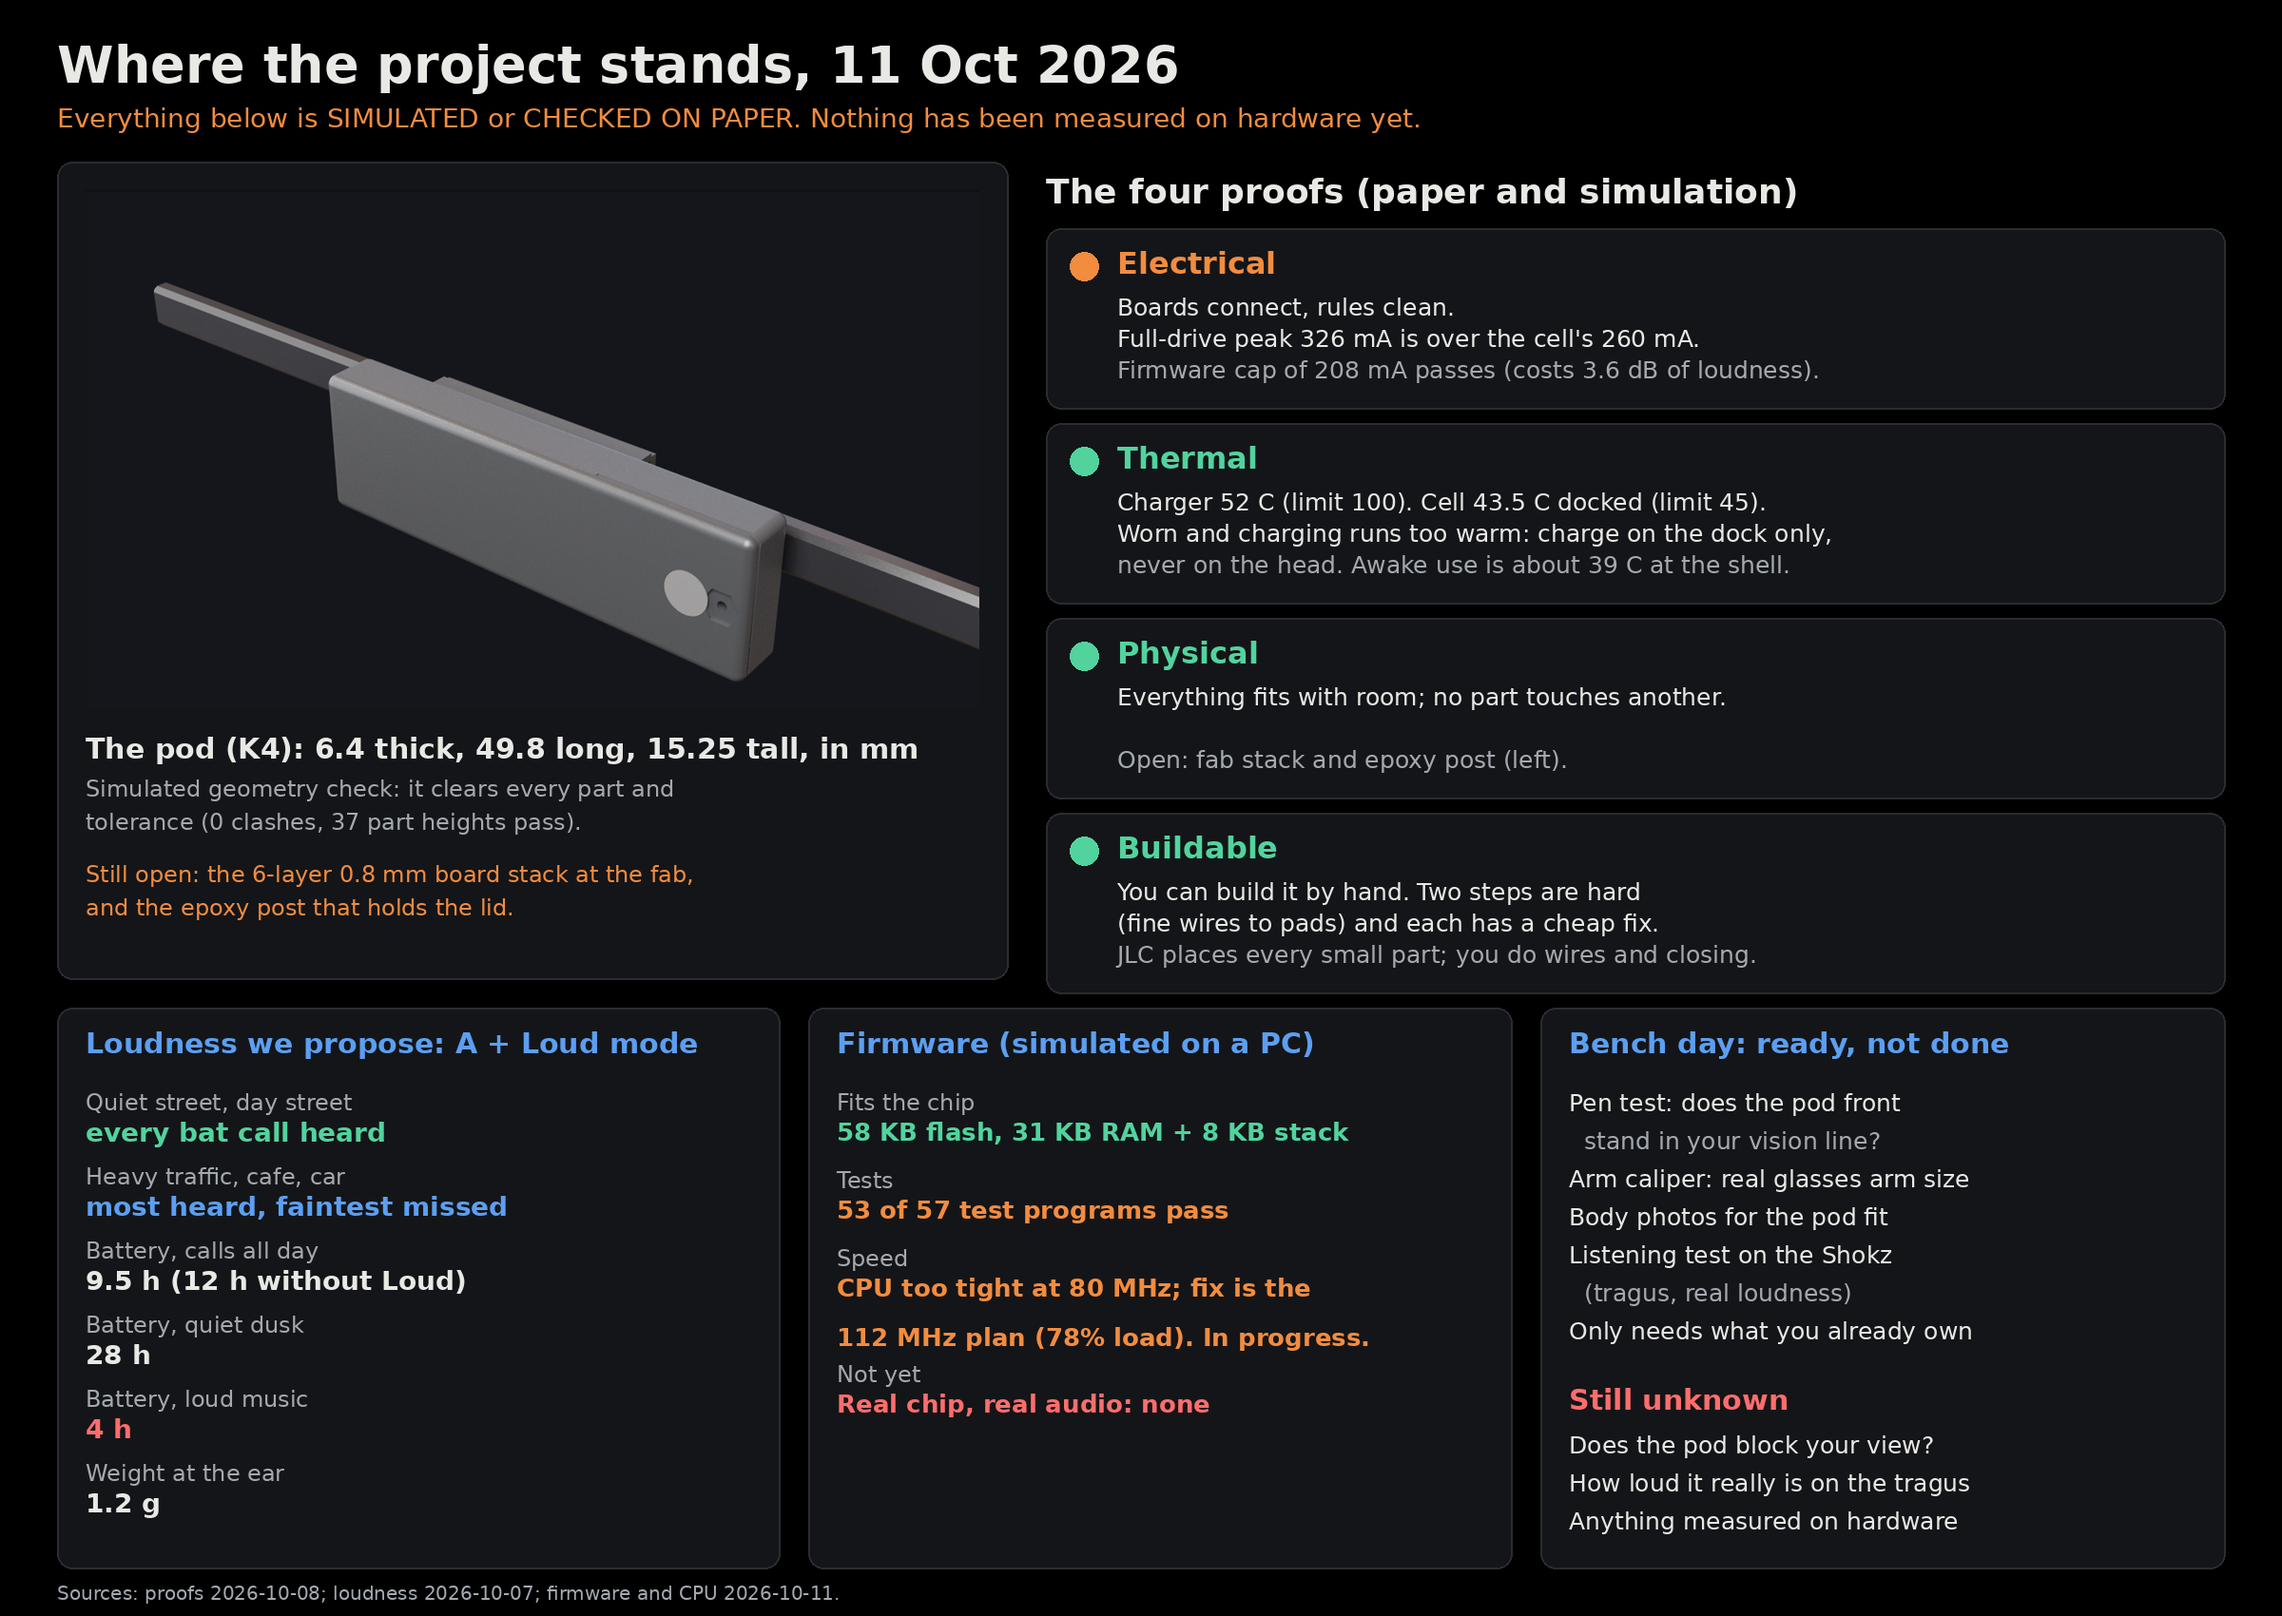
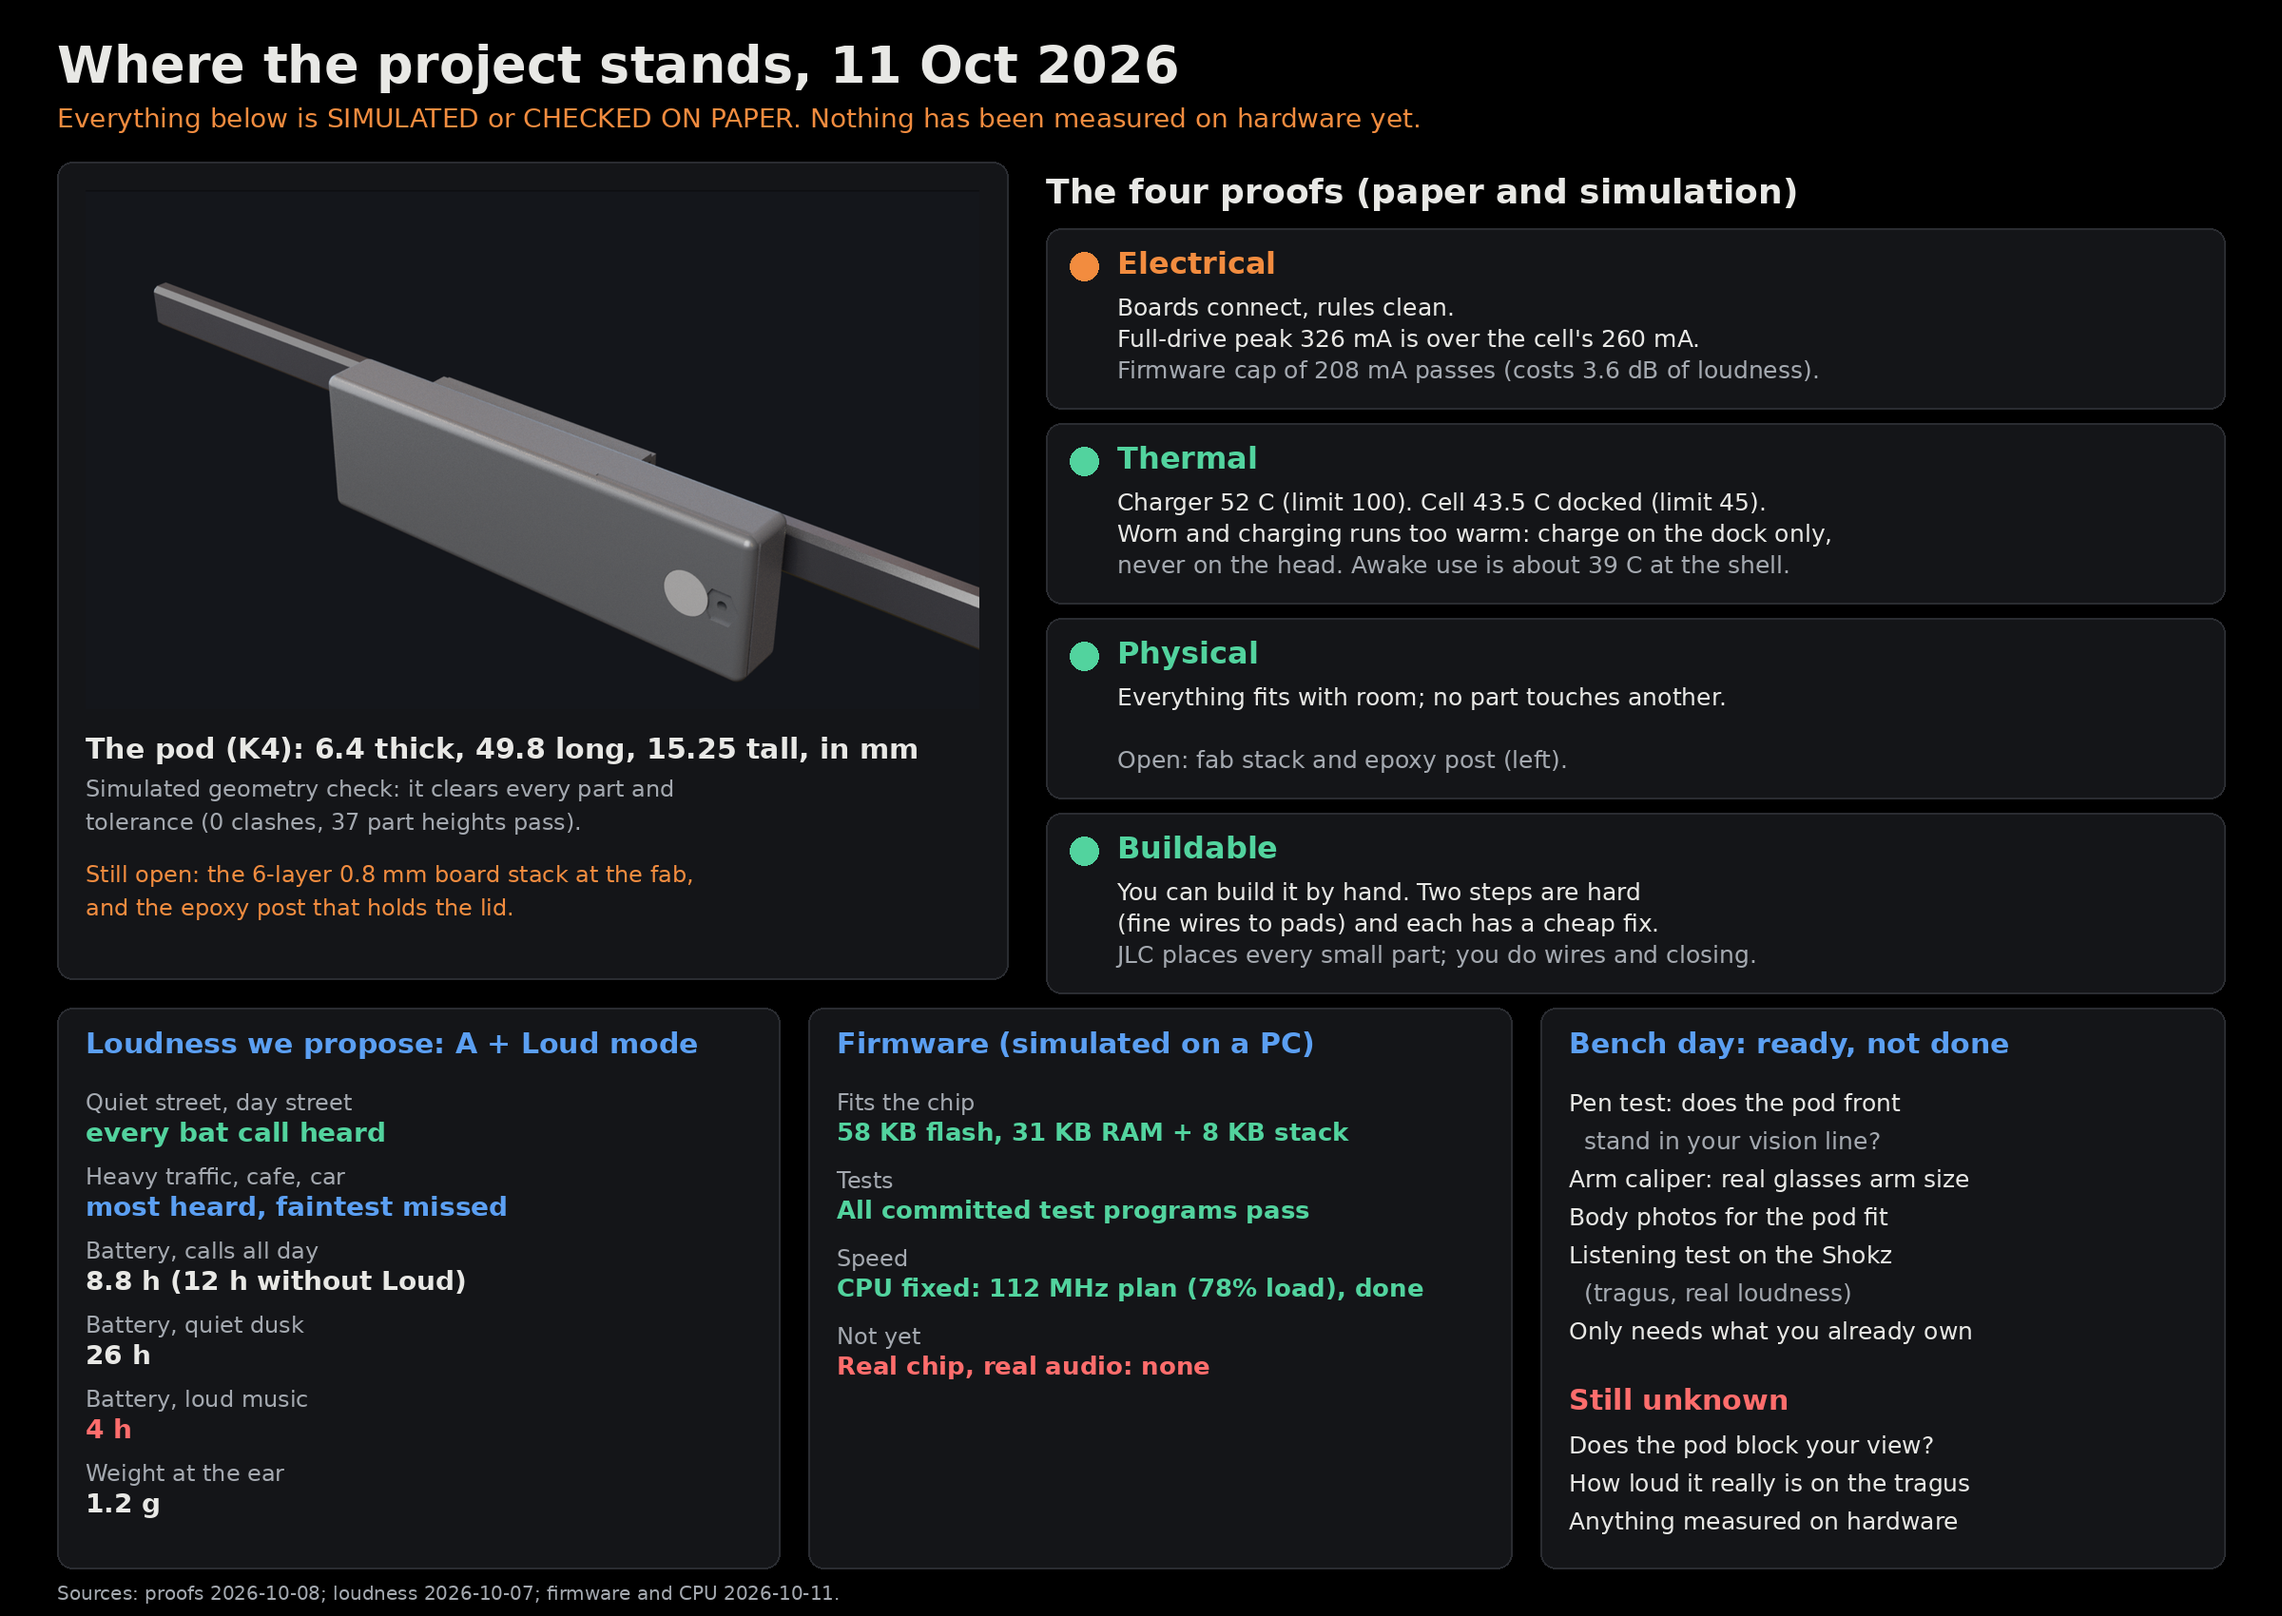
perf: re-run port_meadow after duty-normalisation fix + P112; one runtime table; sync perf doc, reconciled erratum, d17-choice, progress page (2026-10-11)
Claude-Session: https://claude.ai/code/session_01Wg997D6KFs8bxoAH56jZZJ

Changed region(s): [[0.3438, 0.7171, 0.625, 0.8729]]

diff --git a/docs/progress/2026-10-11/make.py b/docs/progress/2026-10-11/make.py
@@ -39,7 +39,7 @@ yb = 1060
 card(60, yb, 760, 590)
 T(90, yb+20, "Loudness we propose: A + Loud mode", 30, BLU, True)
 lo = [("Quiet street, day street", "every bat call heard", GRN), ("Heavy traffic, cafe, car", "most heard, faintest missed", BLU),
-      ("Battery, calls all day", "9.5 h (12 h without Loud)", INK), ("Battery, quiet dusk", "28 h", INK),
+      ("Battery, calls all day", "8.8 h (12 h without Loud)", INK), ("Battery, quiet dusk", "26 h", INK),
       ("Battery, loud music", "4 h", RED), ("Weight at the ear", "1.2 g", INK)]
 yy = yb+85
 for a, b2, c in lo:
@@ -47,8 +47,8 @@ for a, b2, c in lo:
 card(850, yb, 740, 590)
 T(880, yb+20, "Firmware (simulated on a PC)", 30, BLU, True)
 fw = [("Fits the chip", "58 KB flash, 31 KB RAM + 8 KB stack", GRN),
-      ("Tests", "53 of 57 test programs pass", AMB),
-      ("Speed", "CPU too tight at 80 MHz; fix is the", AMB), ("", "112 MHz plan (78% load). In progress.", AMB),
+      ("Tests", "All committed test programs pass", GRN),
+      ("Speed", "CPU fixed: 112 MHz plan (78% load), done", GRN),
       ("Not yet", "Real chip, real audio: none", RED)]
 yy = yb+85
 for a, b2, c in fw:

diff --git a/docs/diagrams/d17-choice/make.py b/docs/diagrams/d17-choice/make.py
@@ -57,8 +57,8 @@ def row(label, vals, yy, sz=22, note=None):
     for i, v in enumerate(vals):
         c = PK if (isinstance(v, tuple) and v[1]) else TX
         t(x0 + i * cw + cw/2, yy, v[0] if isinstance(v, tuple) else v, sz, c, "middle", True)
-row("Battery, dense calls", ["12.3 h", "12.1 h", "9.5 h", "~9.3 h"], yb + 22)
-row("Battery, quiet dusk", ["32 h", "32 h", "28 h", "~27 h"], yb + 58)
+row("Battery, dense calls", ["12.2 h", "11.9 h", "8.8 h", "~8.6 h"], yb + 22)
+row("Battery, quiet dusk", ["32 h", "32 h", "26 h", "~25 h"], yb + 58)
 t(40, yb + 94, "Battery, loud music", 20)
 for i, v in enumerate(["(not tested)", "(not tested)", "4 h", "4 h"]):
     t(x0 + i*cw + cw/2, yb + 94, v, 20 if v[0] != "(" else 14, PK if v == "4 h" else T2, "middle", v[0] != "(")

diff --git a/docs/sim/perf-port-meadow.md b/docs/sim/perf-port-meadow.md
@@ -1,4 +1,17 @@
-# Port Meadow end-to-end performance regression (2026-10-08)
+# Port Meadow end-to-end performance regression (2026-10-08; table re-run 2026-10-11)
+
+**2026-10-11 re-run (authoritative):** after fe405bf (bridge duty normalised by plan ARR/2) and a070a87 (shipping clock P112, ECR-0027), baseline PASS, 54 clips, 2059 calls. Mean mA (dense) / runtime h on 130 mAh (0.85 usable) at dense 81 % / walk 40 % / dusk 18 % awake (aw = awake mA from scene; idle 1.60 + 0.45 bridge ripple unless hiz_idle; LED 0.08):
+
+| config | mean mA | dense 81 % | walk 40 % | dusk 18 % |
+|---|---|---|---|---|
+| today | 10.67 | 12.2 (10.4) | 20.6 (17.5) | 32.4 (27.5) |
+| A (shipping, loud off at boot) | 10.91 | 11.9 (10.1) | 20.2 (17.2) | 31.9 (27.1) |
+| A+loud4 | 11.82 | 11.0 (9.3) | 18.9 (16.0) | 30.4 (25.9) |
+| A+loud12 | 14.83 | 8.8 (7.5) | 15.5 (13.2) | 26.3 (22.4) |
+| A+loud12+shape | 19.86 | 6.5 (5.6) | 12.0 (10.2) | 21.5 (18.3) |
+| hiz_idle | 10.59 | 12.3 (10.4) | 21.5 (18.3) | 35.6 (30.3) |
+
+Old -> new mean mA: 10.58->10.67, 10.76->10.91, 11.43->11.82, 13.63->14.83, 10.50->10.59 (shape 17.36 [10-08 re-bless] -> 19.86). Level/latency/recall rows below unchanged except A max -3.4 -> -3.0, loud max -3.0 -> -2.6 dBFS. Older tables below (10-08) are superseded; they quoted pre-fix currents.
 
 Script `sim/perf/port_meadow.py`, baseline `sim/perf/port_meadow_baseline.json`, runtime ~95 s fenced (3G). `--bless` rewrites the baseline; default run exits 1 if any metric leaves its tolerance.
 Data: Zenodo 22079773 (Port Meadow, AudioMoth 192 kS/s, CC-BY-4.0), receiver_3 of all 54 flypasts, 2059 annotated calls (BatDetect2 det_prob >= 0.5), 210 s scored. One global Pa scale (loudest 10 ms of the 172626 clip = 75 dB SPL; calibration unknown). Each clip tiled 3x, last copy scored. Chain: sim/e2e front end -> host firmware (spec B, transient only, idle detector on).
@@ -13,9 +26,9 @@ Configs: today = defaults; A = lim_lookahead 1 (D17 rec A, fbfb38b); A+loud4/12 
 | false wakes /min, call-free scenes (silence, house walk) | 10.0 | 10.0 | 10.0 | 10.0 | 10.0 | informational |
 | wake-to-sound latency p50 / p90 (ms) | 89.7 / 641 | 90.1 / 642 | 90.4 / 641 | 90.4 / 641 | 89.7 / 641 | 0.7 / 1.4 |
 | output level per call p50 (dBFS pre-quantiser) | -34.2 | -34.2 | -30.2 | -22.3 | -34.2 | 0.3 |
-| output level per call max (dBFS) | -12.0 | -3.4 | -3.0 | -3.0 | -12.0 | 0.3 |
+| output level per call max (dBFS) | -12.0 | -3.0 | -2.6 | -2.6 | -12.0 | 0.3 |
 | awake fraction | 0.815 | 0.815 | 0.815 | 0.815 | 0.815 | (via mean mA) |
-| mean current (mA, model, this scene, reconciled 2026-10-08) | 10.58 | 10.76 | 11.43 | 13.63 | 10.50 | 0.02 |
+| mean current (mA, model, this scene, reconciled 2026-10-08) | 10.67 | 10.91 | 11.82 | 14.83 | 10.59 | 0.02 |
 
 Reading it
 - Wake, false-wake and awake numbers are identical across configs: the knobs act downstream of the idle detector. Only the output side and current move.

diff --git a/docs/proof/electrical/current-models-reconciled.md b/docs/proof/electrical/current-models-reconciled.md
@@ -29,3 +29,15 @@ Awake fraction: dense flypasts 81 % (the clips) / bat-rich walk 40 % / quiet dus
 | hiz_idle | 10.50 | 12.4 (10.5) | 21.6 (18.4) | 35.8 (30.5) |
 So loud12 costs ~3 mA when awake in bats and still clears 8 h even in the dense scene with derating (8.1 h); the d17 4-6 h result applies only to continuous loud-programme playback (cafe/car mode).
 Changed: `sim/perf/port_meadow.py` (current model; baseline re-blessed, mean_ma only), `sim/perf/port_meadow_current.py` (physical check), docs/sim/perf-port-meadow.md, d17-cost.md (scope), D-hiz-idle.md (scope note).
+
+## Erratum 2026-10-11 (supersedes the runtime table above)
+Model corrected in fe405bf (bridge duty normalised by plan ARR/2, clock-independent) with shipping clock P112 (a070a87, ECR-0027); port_meadow re-run, baseline PASS. Mean mA dense, old -> new: today 10.58 -> 10.67; A 10.76 -> 10.91; A+loud4 11.43 -> 11.82; A+loud12 13.63 -> 14.83; hiz_idle 10.50 -> 10.59; A+loud12+shape 17.36 -> 19.86. Runtime h dense/walk/dusk (usable 0.85 in brackets), old -> new:
+| Config | dense 81 % | walk 40 % | dusk 18 % |
+|---|---|---|---|
+| today | 12.3 -> 12.2 (10.4) | 20.7 -> 20.6 (17.5) | 32.5 -> 32.4 (27.5) |
+| A | 12.1 -> 11.9 (10.1) | 20.4 -> 20.2 (17.2) | 32.2 -> 31.9 (27.1) |
+| A+loud4 | 11.4 -> 11.0 (9.3) | 19.4 -> 18.9 (16.0) | 31.1 -> 30.4 (25.9) |
+| A+loud12 | 9.5 -> 8.8 (7.5) | 16.7 -> 15.5 (13.2) | 27.8 -> 26.3 (22.4) |
+| A+loud12+shape | 7.5 -> 6.5 (5.6) | n/a -> 12.0 (10.2) | n/a -> 21.5 (18.3) |
+| hiz_idle | 12.4 -> 12.3 (10.4) | 21.6 -> 21.5 (18.3) | 35.8 -> 35.6 (30.3) |
+A+loud12 dense with derating is now 7.5 h (was 8.1), below the 8 h line the paragraph above cites. Authoritative table: docs/sim/perf-port-meadow.md.

diff --git a/docs/progress/2026-10-11/progress.md b/docs/progress/2026-10-11/progress.md
@@ -7,7 +7,7 @@ All of this is simulated or checked on paper. Nothing is measured on hardware ye
 - **Thermal:** charger 52 C, cell 43.5 C docked (limit 45). Do not charge while worn. Awake ~39 C shell.
 - **Physical:** K4 pod 6.4 x 49.8 x 15.25 mm; 0 clashes. Open: 6L 0.8 mm board stack at JLC, epoxy post.
 - **Buildable:** ~6.7 h hands-on for pod 1; two hard steps, each with a cheap fix.
-- **Loudness A + Loud:** every call heard on quiet and day streets, most heard in traffic/cafe/car; 9.5 h calls, 28 h dusk, 4 h loud music; 1.2 g.
-- **Firmware:** 58 KB flash, 31 KB RAM + 8 KB stack; 53/57 test programs pass; CPU needs the 112 MHz plan (78 % load), in progress.
+- **Loudness A + Loud:** every call heard on quiet and day streets, most heard in traffic/cafe/car; 8.8 h calls (11.9 h without Loud), 26 h dusk (runtimes re-run 2026-10-11 after the duty-normalisation fix), 4 h loud music; 1.2 g.
+- **Firmware:** 58 KB flash, 31 KB RAM + 8 KB stack; committed fwsim is green (the earlier "53/57" was a mid-edit run); CPU fix DONE at the 112 MHz plan (78 % load).
 - **Bench day 1:** run sheet ready (pen test, arm caliper, body photos, Shokz listening).
 - **Unknown:** does the pod block the vision line; real loudness on the tragus; any hardware measurement.
